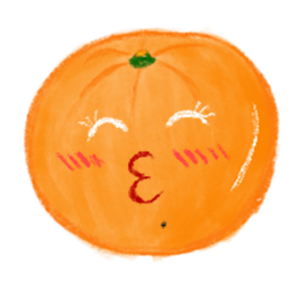
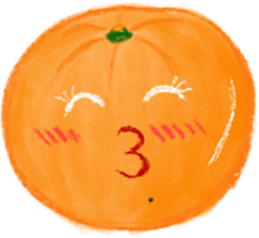
changed images and added fonts

diff --git a/studio2/script.js b/studio2/script.js
@@ -1,27 +1,49 @@
 console.log('reading');
+"use strict";
 
 var tang = document.getElementById('tang');
 var lip = document.getElementById('lip');
 var panda = document.getElementById('panda');
 
-var tangCapt = document.getElementById('tang-caption')
-var lipCapt = document.getElementById('lip-caption')
-var pandaCapt = document.getElementById('panda-caption')
+var hearts = document.getElementById('hearts');
+var notes = document.getElementById('notes');
+var tangerfriend = document.getElementById('tangerfriend');
 
+var tangCapt = document.getElementById('tang-caption');
+var lipCapt = document.getElementById('lip-caption');
+var pandaCapt = document.getElementById('panda-caption');
+
+/*click on tangerine to reveal tangerine face and caption*/
 tang.addEventListener('click', function() {
-  tang.src = 'images/tangerine-face.png';
   tang.style.cursor = 'pointer';
+  tang.src = 'images/tangerine-face.png';
   tangCapt.style.display = 'block';
+  lipCapt.style.display = 'none';
+  pandaCapt.style.display = 'none';
 })
 
+/*click on lipstick to reveal lips, hearts, and caption*/
 lip.addEventListener('click', function() {
-  lip.src = '';
   lip.style.cursor = 'pointer';
+  lip.src = 'images/lipstick-lips.png';
+  hearts.style.display = 'block';
   lipCapt.style.display = 'block';
+  tangCapt.style.display = 'none';
+  pandaCapt.style.display = 'none';
 })
 
+/*click on panda to reveal music notes, earphones, and caption*/
 panda.addEventListener('click', function() {
-  panda.src = '';
   panda.style.cursor = 'pointer';
+  panda.src = 'images/panda-earphones.png';
   pandaCapt.style.display = 'block';
+  notes.style.display = 'block';
+  tangCapt.style.display = 'none';
+  lipCapt.style.display = 'none';
+})
+
+/*click on hearts to reveal tanger-friend*/
+hearts.addEventListener('click', function(){
+  panda.style.cursor = 'pointer';
+  tangerfriend.style.display='block';
 })

diff --git a/studio2/index.html b/studio2/index.html
@@ -6,20 +6,25 @@
   <!--normalize.css-->
   <meta name="viewport" content="width=device-width, initial-scale=1.0">
   <link href="https://cdn.jsdelivr.net/npm/normalize.css@7.0.0/normalize.min.css" rel=stylesheet>
+  <link href="https://fonts.googleapis.com/css?family=Quicksand:400,700" rel="stylesheet">
   <link href="styles.css" rel=stylesheet>
 </head>
 
 <body>
   <header>
-    <h1>Tangerine-mily</h1>
-    <h2>a cutie who loves lipstick and sharing music</h2>
+    <h1>What's in my bag? </h1>
+    <h2>a cutie, lipstick, and panda earphone splitter</h2>
   </header>
 
   <section>
-    <img src="images/tangerine.png" alt=Tangerine width=300px height=300px id=tang>
-    <img src="images/lipstick.png" alt="Lipstick" width=200px height=200px id=lip>
-    <img src="images/panda.png" alt="Panda Earphone splitter" width=100px height=100px id=panda>
+    <img src="images/hearts.png" alt="Two pink hearts" width=100px height=100px id=hearts>
+    <img src="images/notes.png" alt="Music notes" width=500 height=200px id=notes>
+    <img src="images/tangerine.png" alt=Tangerine width=259px height=238px id=tang>
+    <img src="images/lipstick.png" alt="Lipstick" width=300px height=200px id=lip>
+    <img src="images/panda.png" alt="Panda Earphone splitter" width=500px height=300px id=panda>
+    <img src="images/tangerfriend.png" alt="Tanger-friend sharing earphones" width=300 height=350px id=tangerfriend>
   </section>
+
 
   <article id=tang-caption>
     <h3>Tangerines<h3>

diff --git a/studio2/styles.css b/studio2/styles.css
@@ -1,3 +1,91 @@
+body {
+  width: 80%;
+  margin: auto;
+  background-color: #f2e6ff;
+  box-sizing: border-box;
+}
+
+/*typography*/
+* {
+  font-family: 'Quicksand', monospace, sans-serif;
+    text-align: center;
+}
+
+h1 {
+  color: #b53573;
+  font-size: 2em;
+  font-weight: 700;
+  text-transform: uppercase;
+  padding: 20px 10px;
+}
+
+h2 {
+  color: #b53573;
+  font-size: 1.2em;
+  font-weight: 400;
+  margin: 10px;
+}
+
+h3 {
+  font-size: 1.2em;
+  font-weight: 700;
+}
+
+p {
+  font-size: .9em;
+  font-weight: 400;
+}
+
+
+/*images styling*/
+images {
+  float: left;
+}
+
+#tang {
+ position: relative;
+}
+
+#panda {
+  position: relative;
+  left: -104px;
+  bottom: 150px;
+}
+
+#lip {
+  position: relative;
+  left: -350px;
+  bottom: -200px;
+}
+
+#tangerfriend {
+  display: none;
+  position: relative;
+  bottom: 560px;
+  left: 350px;
+  float: left;
+}
+
+#hearts {
+  display: none;
+  position: relative;
+  left: 300px;
+  bottom: -50px;
+  float: left;
+}
+
+#notes {
+  display: none;
+  position: relative;
+  bottom: -70px;
+  float: left;
+}
+
+#tang, #lip, #panda{
+  cursor: pointer;
+}
+
+/*captions*/
 #tang-caption {
   display: none;
 }
